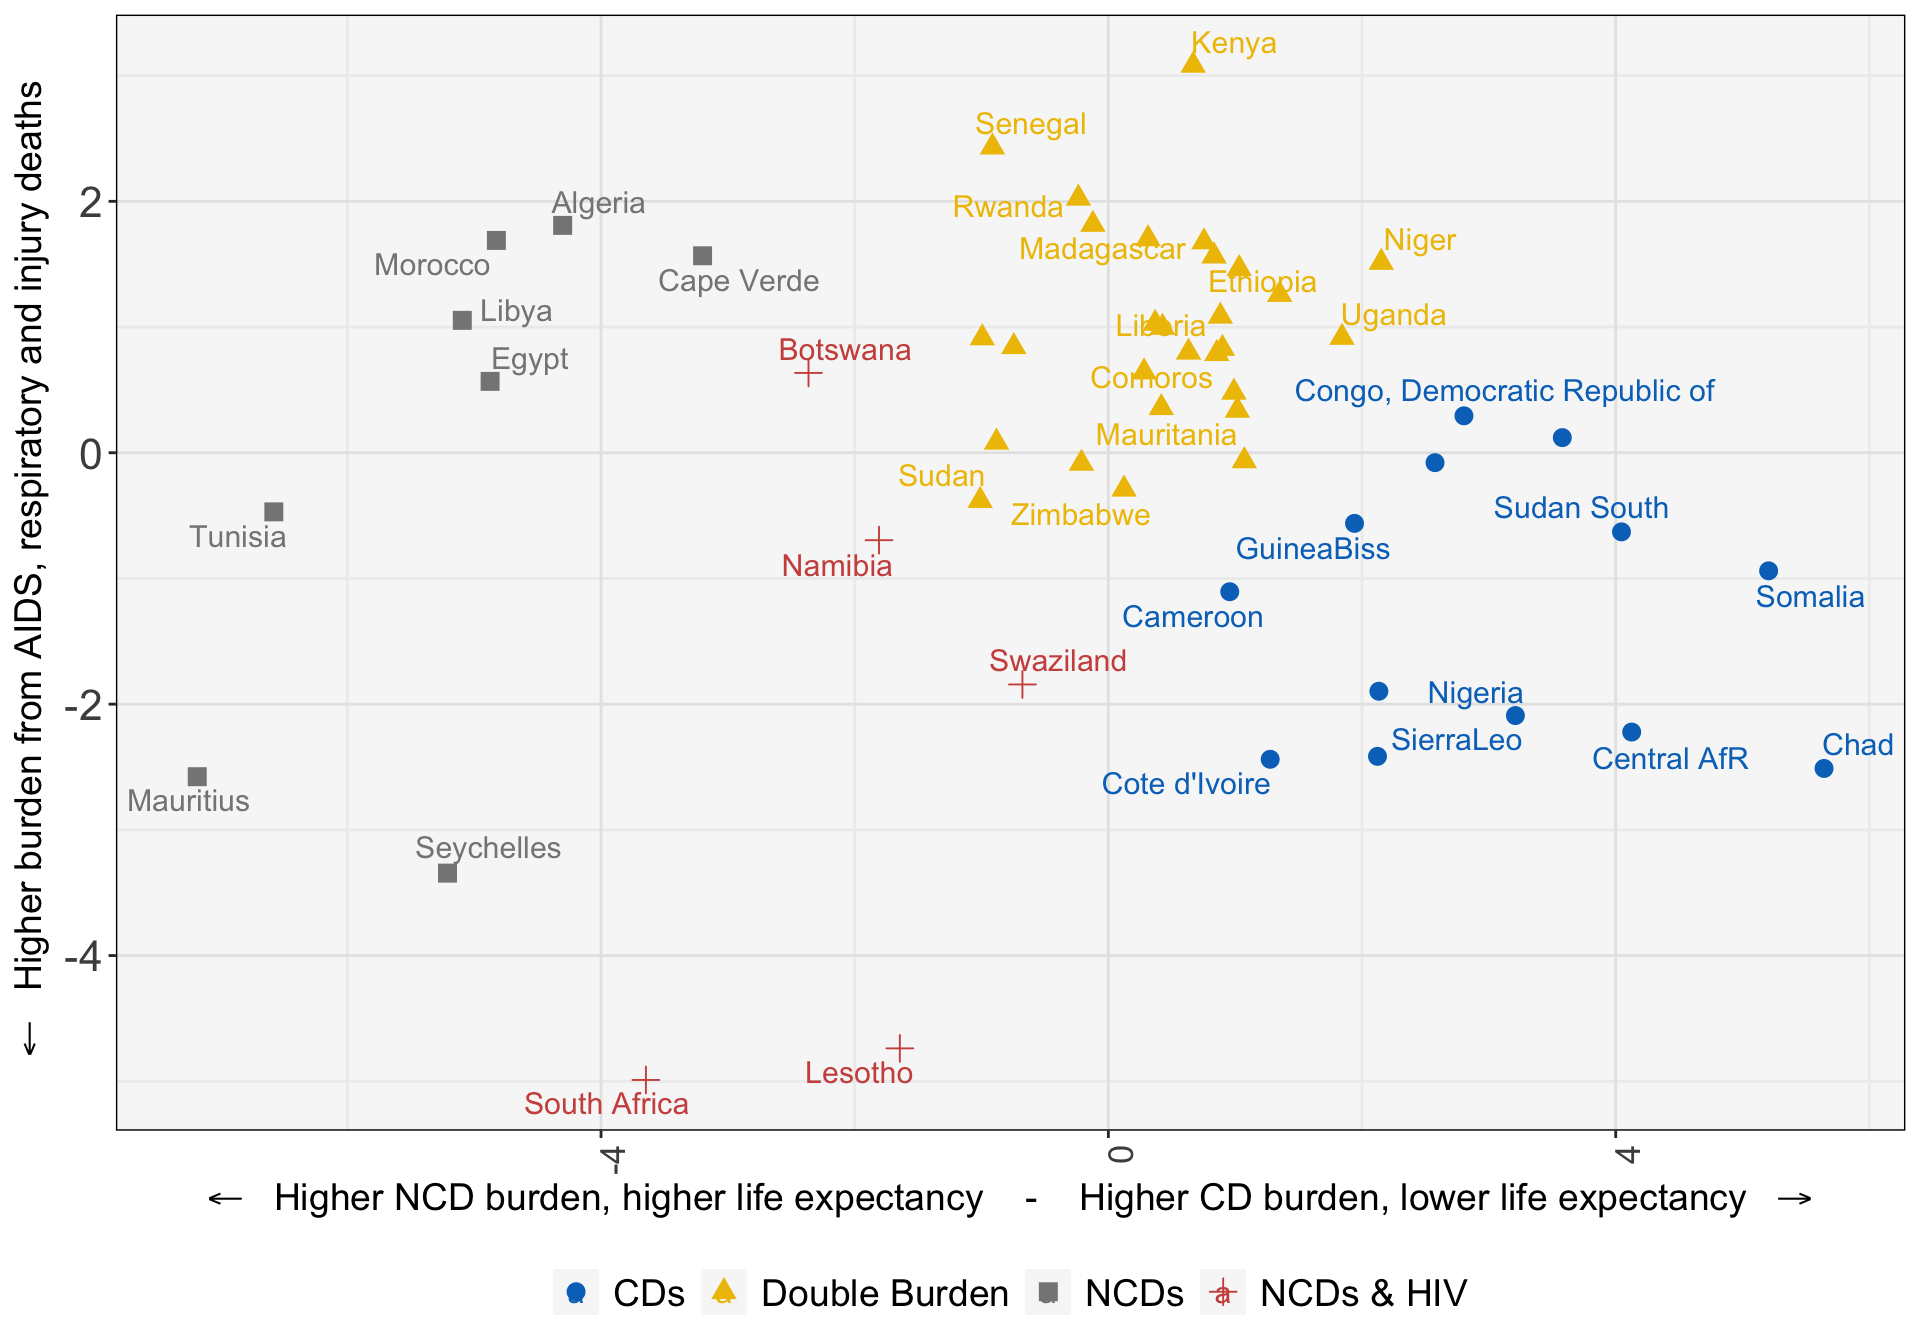
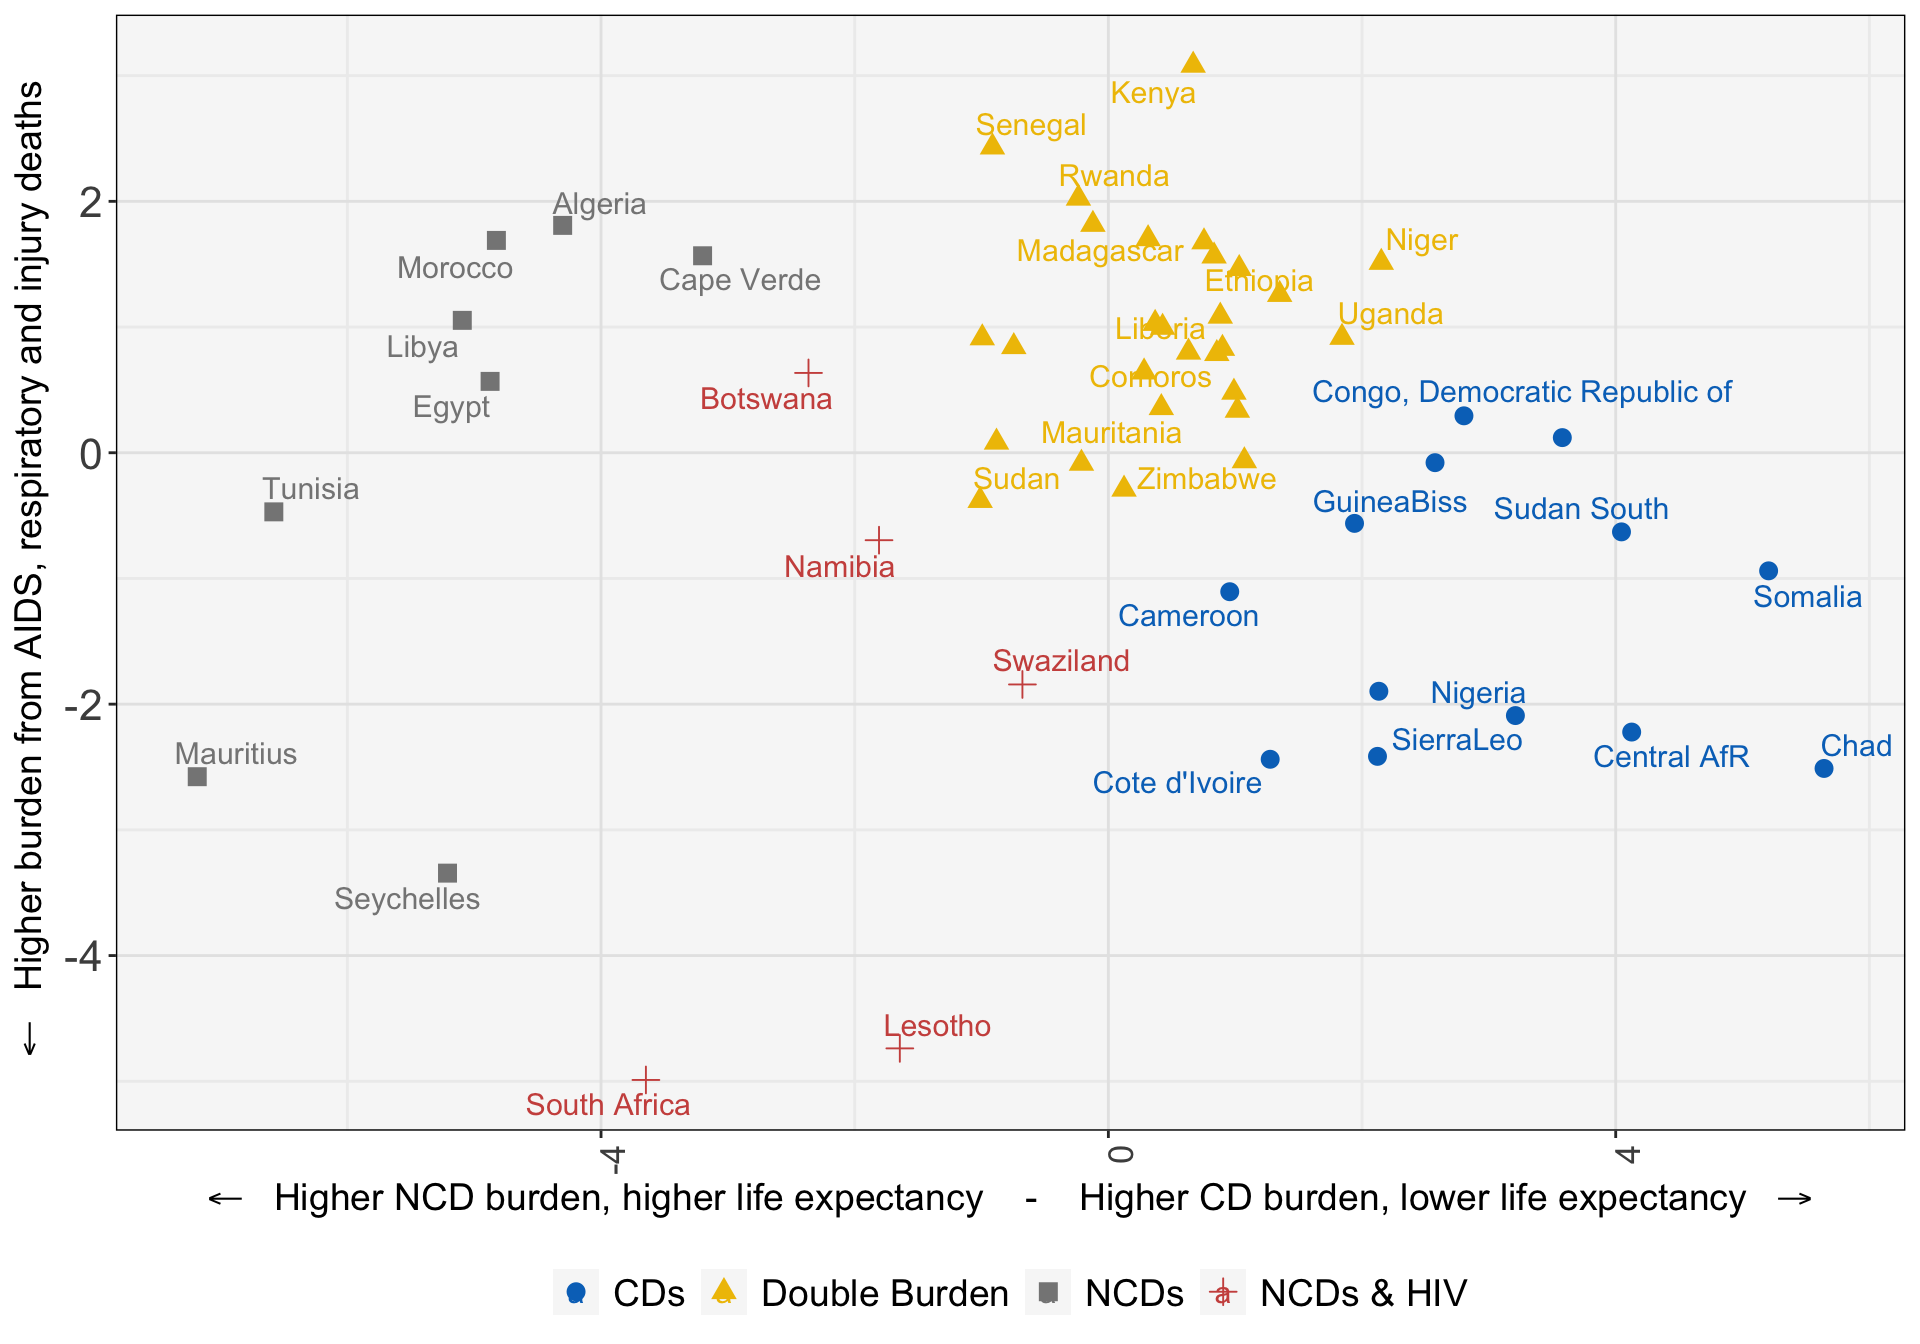
putting up mapping post

diff --git a/docs/posts.html b/docs/posts.html
@@ -173,7 +173,7 @@ window.Quarto = {
 <!-- margin-sidebar -->
     <div id="quarto-margin-sidebar" class="sidebar margin-sidebar">
         
-    <h5 class="quarto-listing-category-title">Categories</h5><div class="quarto-listing-category category-default"><div class="category" data-category="">All <span class="quarto-category-count">(4)</span></div><div class="category" data-category="R">R <span class="quarto-category-count">(4)</span></div><div class="category" data-category="cluster-analysis">cluster-analysis <span class="quarto-category-count">(1)</span></div><div class="category" data-category="data-viz">data-viz <span class="quarto-category-count">(3)</span></div><div class="category" data-category="gganimate">gganimate <span class="quarto-category-count">(1)</span></div><div class="category" data-category="gt">gt <span class="quarto-category-count">(1)</span></div><div class="category" data-category="international-development">international-development <span class="quarto-category-count">(2)</span></div><div class="category" data-category="regression">regression <span class="quarto-category-count">(1)</span></div><div class="category" data-category="sports">sports <span class="quarto-category-count">(1)</span></div><div class="category" data-category="tidyverse">tidyverse <span class="quarto-category-count">(3)</span></div><div class="category" data-category="web-scraping">web-scraping <span class="quarto-category-count">(1)</span></div></div></div>
+    <h5 class="quarto-listing-category-title">Categories</h5><div class="quarto-listing-category category-default"><div class="category" data-category="">All <span class="quarto-category-count">(5)</span></div><div class="category" data-category="R">R <span class="quarto-category-count">(5)</span></div><div class="category" data-category="cluster-analysis">cluster-analysis <span class="quarto-category-count">(2)</span></div><div class="category" data-category="data-viz">data-viz <span class="quarto-category-count">(4)</span></div><div class="category" data-category="gganimate">gganimate <span class="quarto-category-count">(1)</span></div><div class="category" data-category="gt">gt <span class="quarto-category-count">(1)</span></div><div class="category" data-category="international-development">international-development <span class="quarto-category-count">(3)</span></div><div class="category" data-category="regression">regression <span class="quarto-category-count">(1)</span></div><div class="category" data-category="sports">sports <span class="quarto-category-count">(1)</span></div><div class="category" data-category="tidyverse">tidyverse <span class="quarto-category-count">(4)</span></div><div class="category" data-category="web-scraping">web-scraping <span class="quarto-category-count">(1)</span></div></div></div>
 <!-- main -->
 <main class="content column-page-left" id="quarto-document-content">
 
@@ -241,7 +241,49 @@ Jul 15, 2024
 </div>
 </a>
 </div>
-<div class="g-col-1" data-index="1" data-categories="R,data-viz,tidyverse,international-development,cluster-analysis" data-listing-date-sort="1560837600000" data-listing-file-modified-sort="1721410059270" data-listing-date-modified-sort="NaN" data-listing-reading-time-sort="10" data-listing-word-count-sort="1922">
+<div class="g-col-1" data-index="1" data-categories="R,data-viz,tidyverse,international-development,cluster-analysis" data-listing-date-sort="1560837600000" data-listing-file-modified-sort="1721416793077" data-listing-date-modified-sort="NaN" data-listing-reading-time-sort="10" data-listing-word-count-sort="1913">
+<a href="./posts/2019-06-25-mapping-african-health-clusters/index.html" class="quarto-grid-link">
+<div class="quarto-grid-item card h-100 card-left">
+<p class="card-img-top">
+<img src="./posts/2019-06-25-mapping-african-health-clusters/cluster_plot.png" class="thumbnail-image card-img" style="height: 150px;">
+</p>
+<div class="card-body post-contents">
+<h5 class="no-anchor card-title listing-title">
+PCluster Analysis of African Health Outcomes
+</h5>
+<div class="listing-categories">
+<div class="listing-category" onclick="window.quartoListingCategory('R'); return false;">
+R
+</div>
+<div class="listing-category" onclick="window.quartoListingCategory('data-viz'); return false;">
+data-viz
+</div>
+<div class="listing-category" onclick="window.quartoListingCategory('tidyverse'); return false;">
+tidyverse
+</div>
+<div class="listing-category" onclick="window.quartoListingCategory('international-development'); return false;">
+international-development
+</div>
+<div class="listing-category" onclick="window.quartoListingCategory('cluster-analysis'); return false;">
+cluster-analysis
+</div>
+</div>
+<div class="card-text listing-description">
+Exploring how African countries cluster based on their health outcomes
+</div>
+<div class="card-attribution card-text-small justify">
+<div class="listing-author">
+Mickey Rafa
+</div>
+<div class="listing-date">
+Jun 18, 2019
+</div>
+</div>
+</div>
+</div>
+</a>
+</div>
+<div class="g-col-1" data-index="2" data-categories="R,data-viz,tidyverse,international-development,cluster-analysis" data-listing-date-sort="1560837600000" data-listing-file-modified-sort="1721414477428" data-listing-date-modified-sort="NaN" data-listing-reading-time-sort="10" data-listing-word-count-sort="1913">
 <a href="./posts/2019-06-18-clustering-african-health-outcomes/index.html" class="quarto-grid-link">
 <div class="quarto-grid-item card h-100 card-left">
 <p class="card-img-top">
@@ -283,7 +325,7 @@ Jun 18, 2019
 </div>
 </a>
 </div>
-<div class="g-col-1" data-index="2" data-categories="R,data-viz,tidyverse,gganimate" data-listing-date-sort="1508047200000" data-listing-file-modified-sort="1721327955994" data-listing-date-modified-sort="NaN" data-listing-reading-time-sort="5" data-listing-word-count-sort="964">
+<div class="g-col-1" data-index="3" data-categories="R,data-viz,tidyverse,gganimate" data-listing-date-sort="1508047200000" data-listing-file-modified-sort="1721327955994" data-listing-date-modified-sort="NaN" data-listing-reading-time-sort="5" data-listing-word-count-sort="964">
 <a href="./posts/2017-10-15-gapminder-gganimate/index.html" class="quarto-grid-link">
 <div class="quarto-grid-item card h-100 card-left">
 <p class="card-img-top"><img src="posts/2017-10-15-gapminder-gganimate/index_files/figure-html/fig1-1.png" style="height: 150px;"  class="thumbnail-image card-img"/></p>
@@ -320,7 +362,7 @@ Oct 15, 2017
 </div>
 </a>
 </div>
-<div class="g-col-1" data-index="3" data-categories="R,regression,data-viz,tidyverse,international-development" data-listing-date-sort="1506837600000" data-listing-file-modified-sort="1721318286337" data-listing-date-modified-sort="NaN" data-listing-reading-time-sort="4" data-listing-word-count-sort="761">
+<div class="g-col-1" data-index="4" data-categories="R,regression,data-viz,tidyverse,international-development" data-listing-date-sort="1506837600000" data-listing-file-modified-sort="1721318286337" data-listing-date-modified-sort="NaN" data-listing-reading-time-sort="4" data-listing-word-count-sort="761">
 <a href="./posts/2017-10-01-gapminder-nested-models/index.html" class="quarto-grid-link">
 <div class="quarto-grid-item card h-100 card-left">
 <p class="card-img-top">

diff --git a/docs/posts/2019-06-18-clustering-african-health-outcomes/index.html b/docs/posts/2019-06-18-clustering-african-health-outcomes/index.html
@@ -916,7 +916,6 @@ chr (3): type, country, group
 </figure>
 </div>
 </div>
-<div class="sourceCode cell-code" id="cb26"><pre class="sourceCode r code-with-copy"><code class="sourceCode r"><span id="cb26-1"><a href="#cb26-1" aria-hidden="true" tabindex="-1"></a><span class="fu">ggsave</span>(<span class="st">"cluster_plot.png"</span>, <span class="at">plot =</span> <span class="fu">last_plot</span>(), <span class="at">width =</span> <span class="dv">10</span>, <span class="at">height =</span> <span class="dv">7</span>)</span></code><button title="Copy to Clipboard" class="code-copy-button"><i class="bi"></i></button></pre></div>
 </div>
 
 
